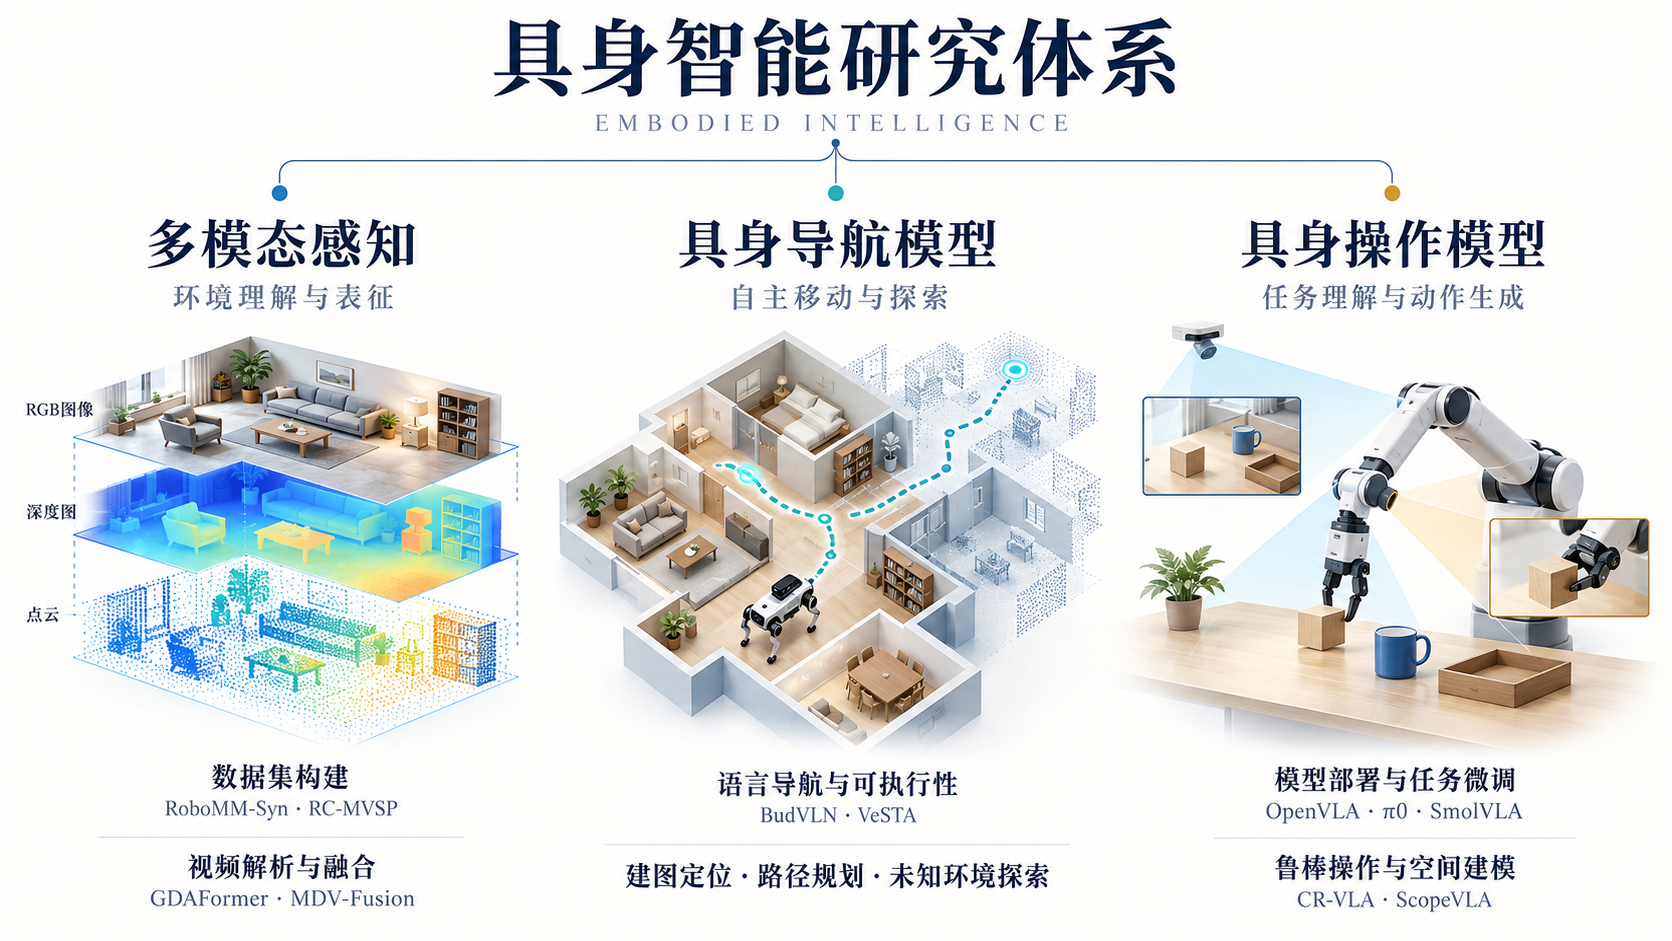
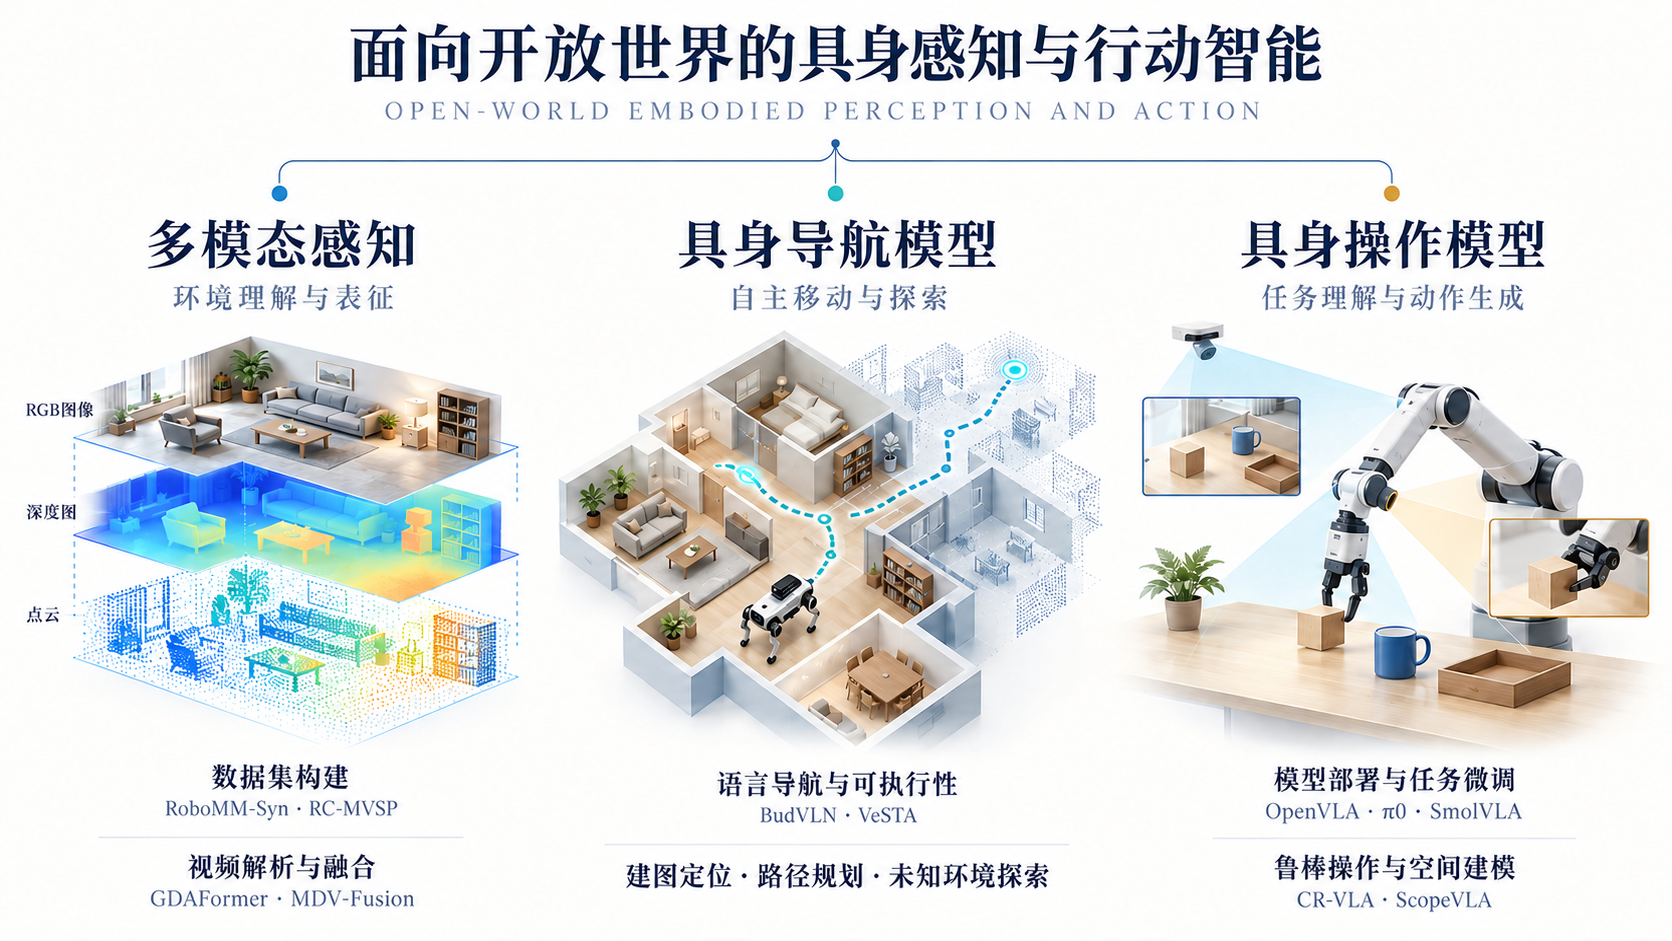
Rename research overview to open-world embodied perception and action

diff --git a/README.md b/README.md
@@ -1,12 +1,12 @@
-# 具身智能研究体系
+# 面向开放世界的具身感知与行动智能
 
 [多模态感知](multimodal-perception/README.md) · [具身导航模型](vln/README.md) · [具身操作模型](vla/README.md) · [开放数据集](datasets/README.md)
 
-## 研究体系
+## 研究概览
 
-面向机器人对环境的理解、自主移动与物体操作，围绕多模态感知、具身导航模型、具身操作模型三个方向开展研究，覆盖数据集构建、模型方法、仿真评估与实机验证。
+面向开放世界的具身感知与行动智能，聚焦机器人对环境的理解、自主移动与物体操作，围绕多模态感知、具身导航模型、具身操作模型三个方向开展研究，覆盖数据集构建、模型方法、仿真评估与实机验证。
 
-![具身智能研究体系：多模态感知、具身导航模型与具身操作模型](assets/research/research-overview.png)
+![面向开放世界的具身感知与行动智能：多模态感知、具身导航模型与具身操作模型](assets/research/research-overview.png)
 
 ## 研究成果
 
